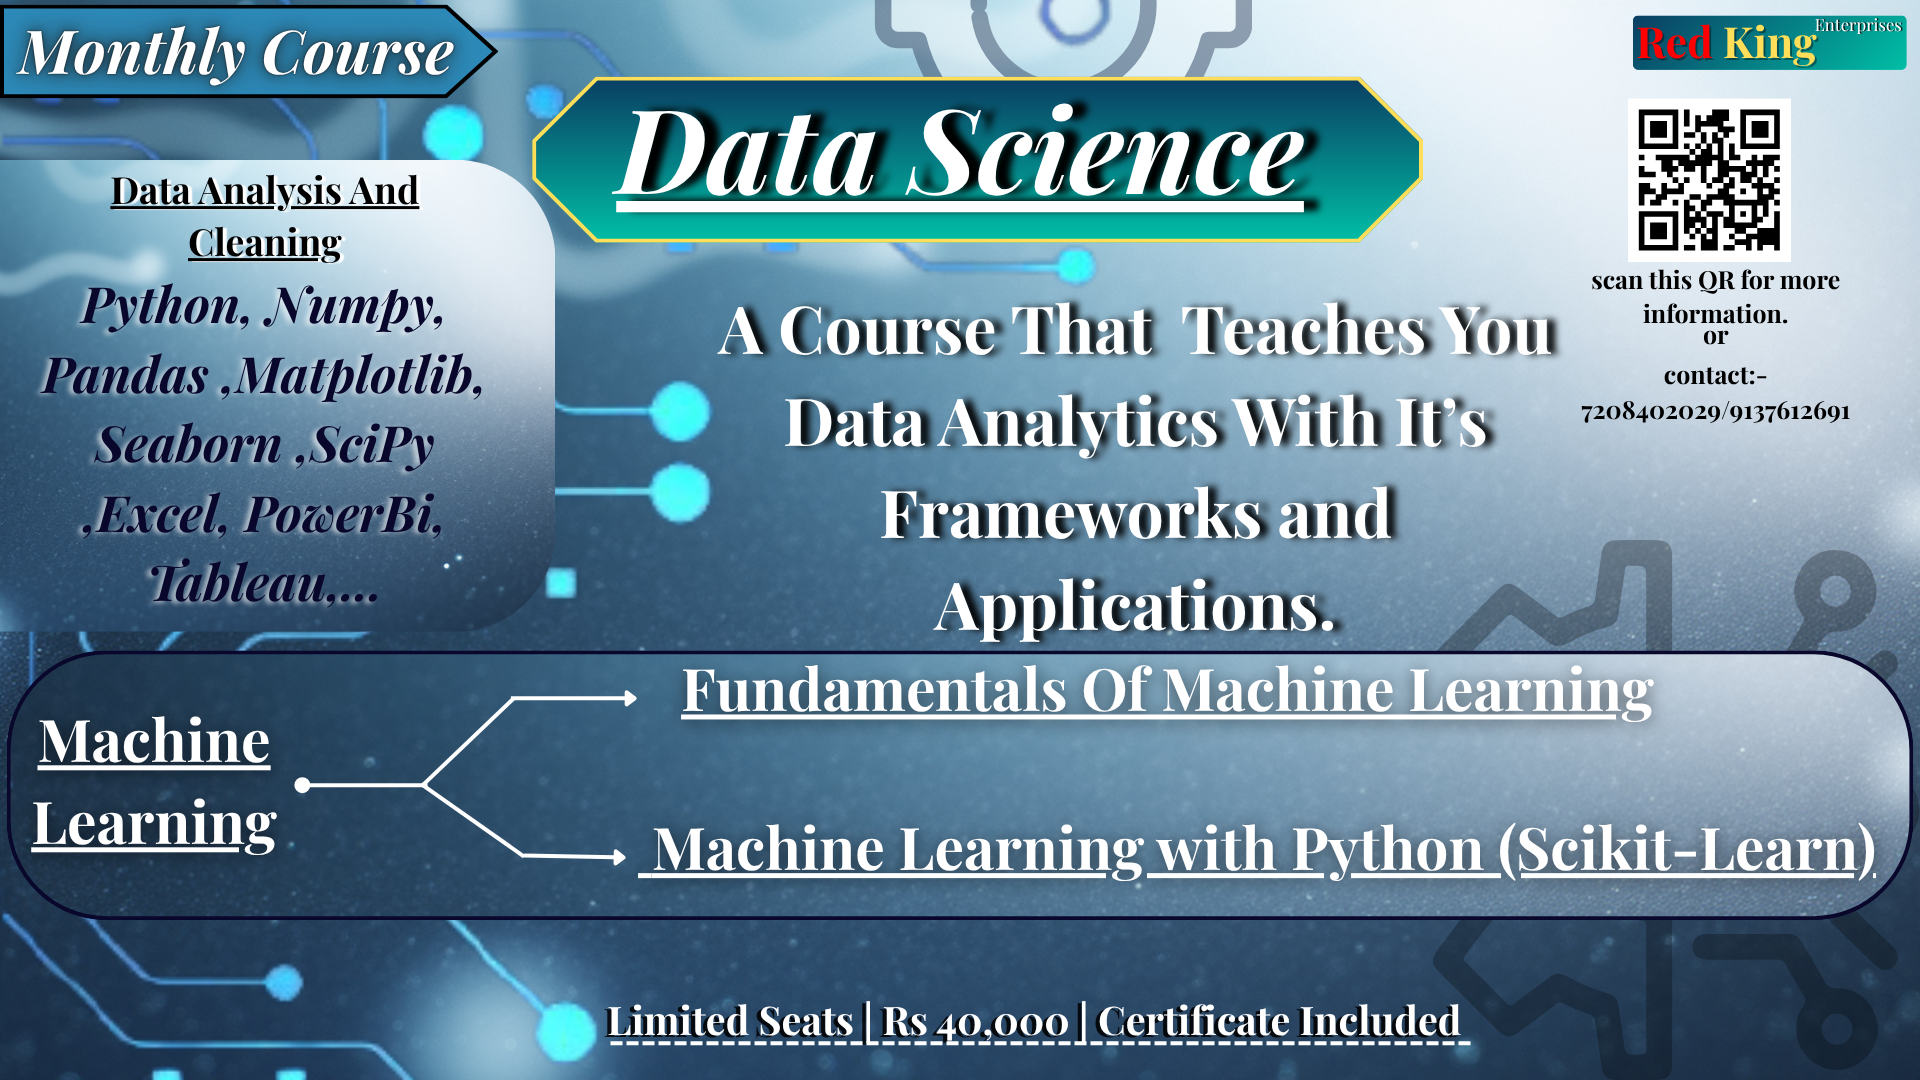
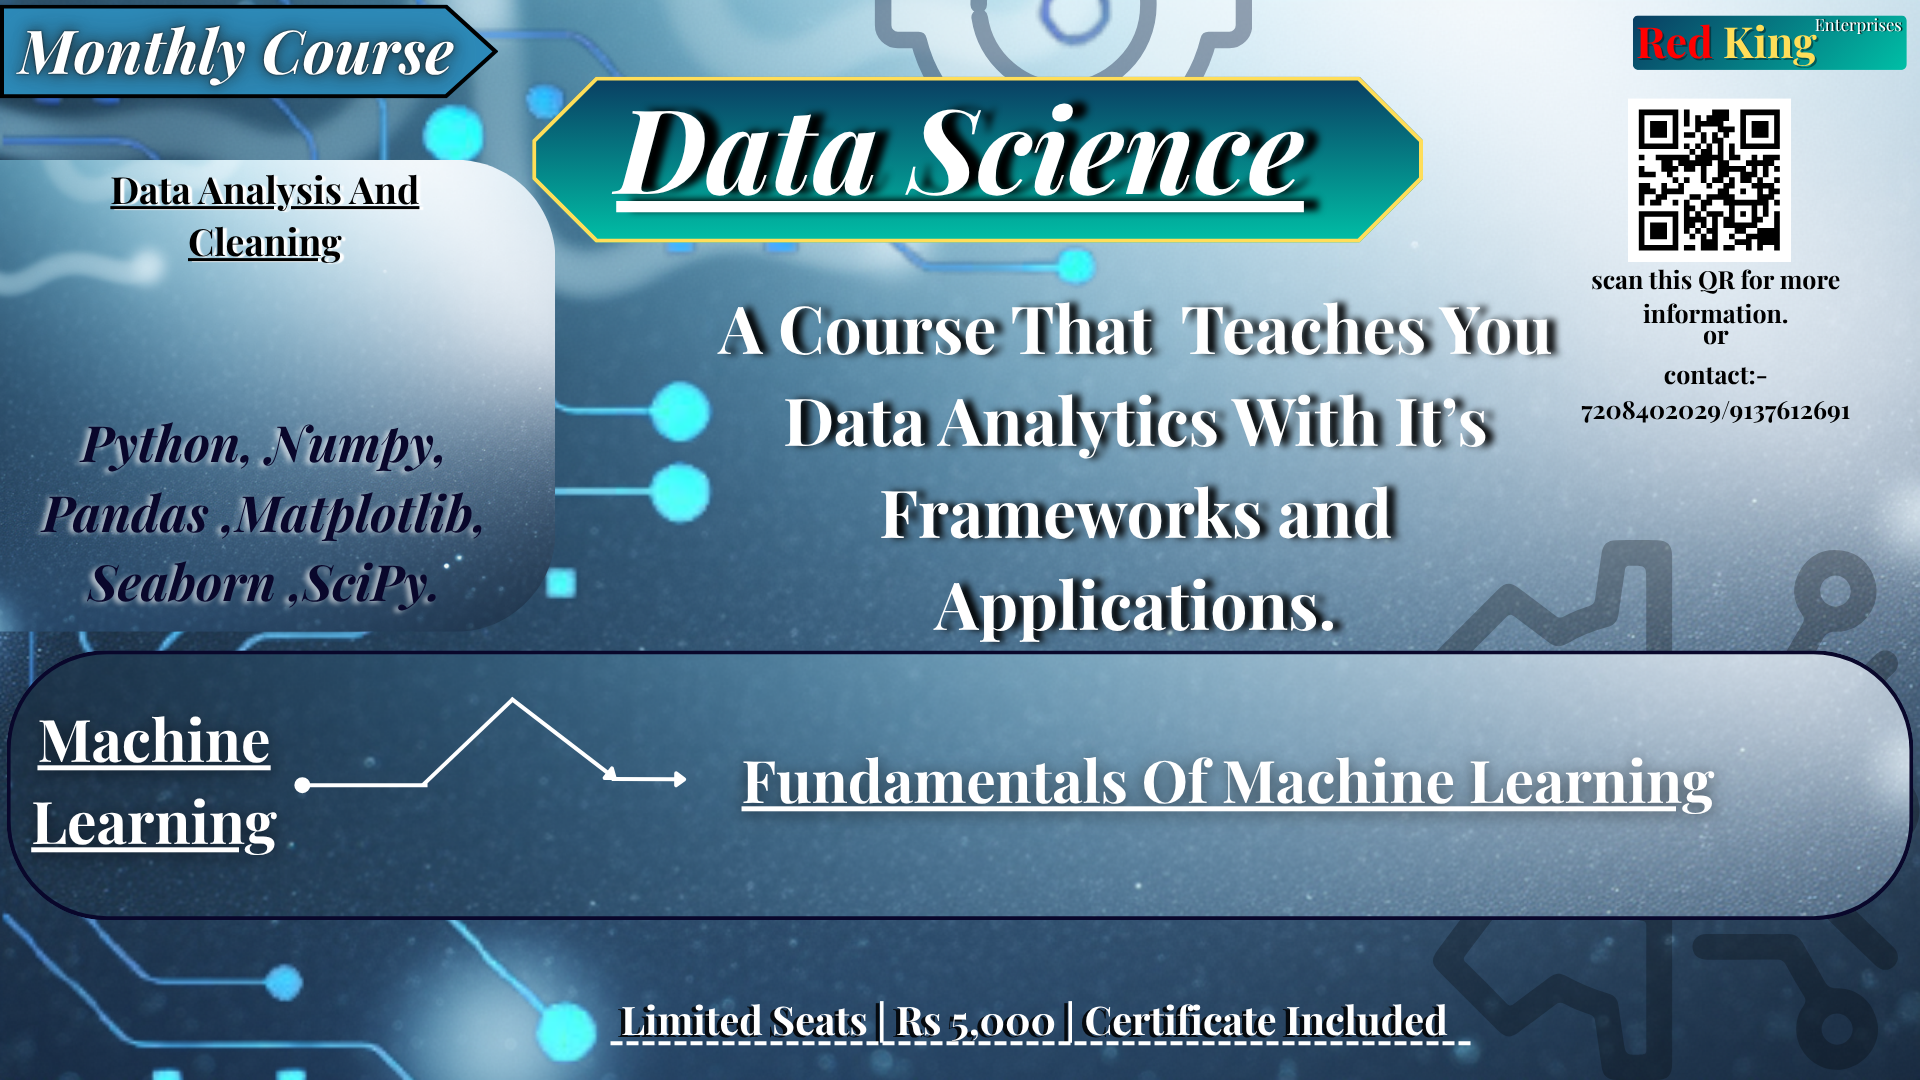
Add files via upload

diff --git a/index.html b/index.html
@@ -34,7 +34,6 @@
         <ul class="list-disc ml-5 space-y-1 text-gray-700">
           <li>Python, SQL</li>
           <li>NumPy, Pandas, Matplotlib, Seaborn, SciPy</li>
-          <li>Excel, Power BI, Tableau</li>
         </ul>
       </div>
 
@@ -42,7 +41,6 @@
         <h3 class="text-xl font-semibold text-teal-700 mb-2">Machine Learning</h3>
         <ul class="list-disc ml-5 space-y-1 text-gray-700">
           <li>Fundamentals of Machine Learning</li>
-          <li>Machine Learning with Python (Scikit-Learn)</li>
         </ul>
       </div>
     </div>
@@ -51,8 +49,8 @@
   <!-- Course Details -->
   <section class="max-w-5xl mx-auto mt-10 bg-gradient-to-r from-blue-100 to-teal-100 rounded-xl shadow p-8 text-center">
     <h2 class="text-2xl font-bold text-blue-800 mb-3">Course Details</h2>
-    <p class="text-gray-700 mb-1">📅 <strong>Duration:</strong> 56 Days (Intensive Learning)</p>
-    <p class="text-gray-700 mb-1">💰 <strong>Fees:</strong> <del>Rs. 40,000</del> Rs. 30,000</p>
+    <p class="text-gray-700 mb-1">📅 <strong>Duration:</strong> 30 Days (Intensive Learning)</p>
+    <p class="text-gray-700 mb-1">💰 <strong>Fees:</strong> Rs. 5,000</p>
     <p class="text-gray-700 mb-1">📜 <strong>Certificate:</strong> Included upon completion</p>
     <p class="text-gray-700">🎯 <strong>Seats:</strong> Limited Enrollment</p>
   </section>
